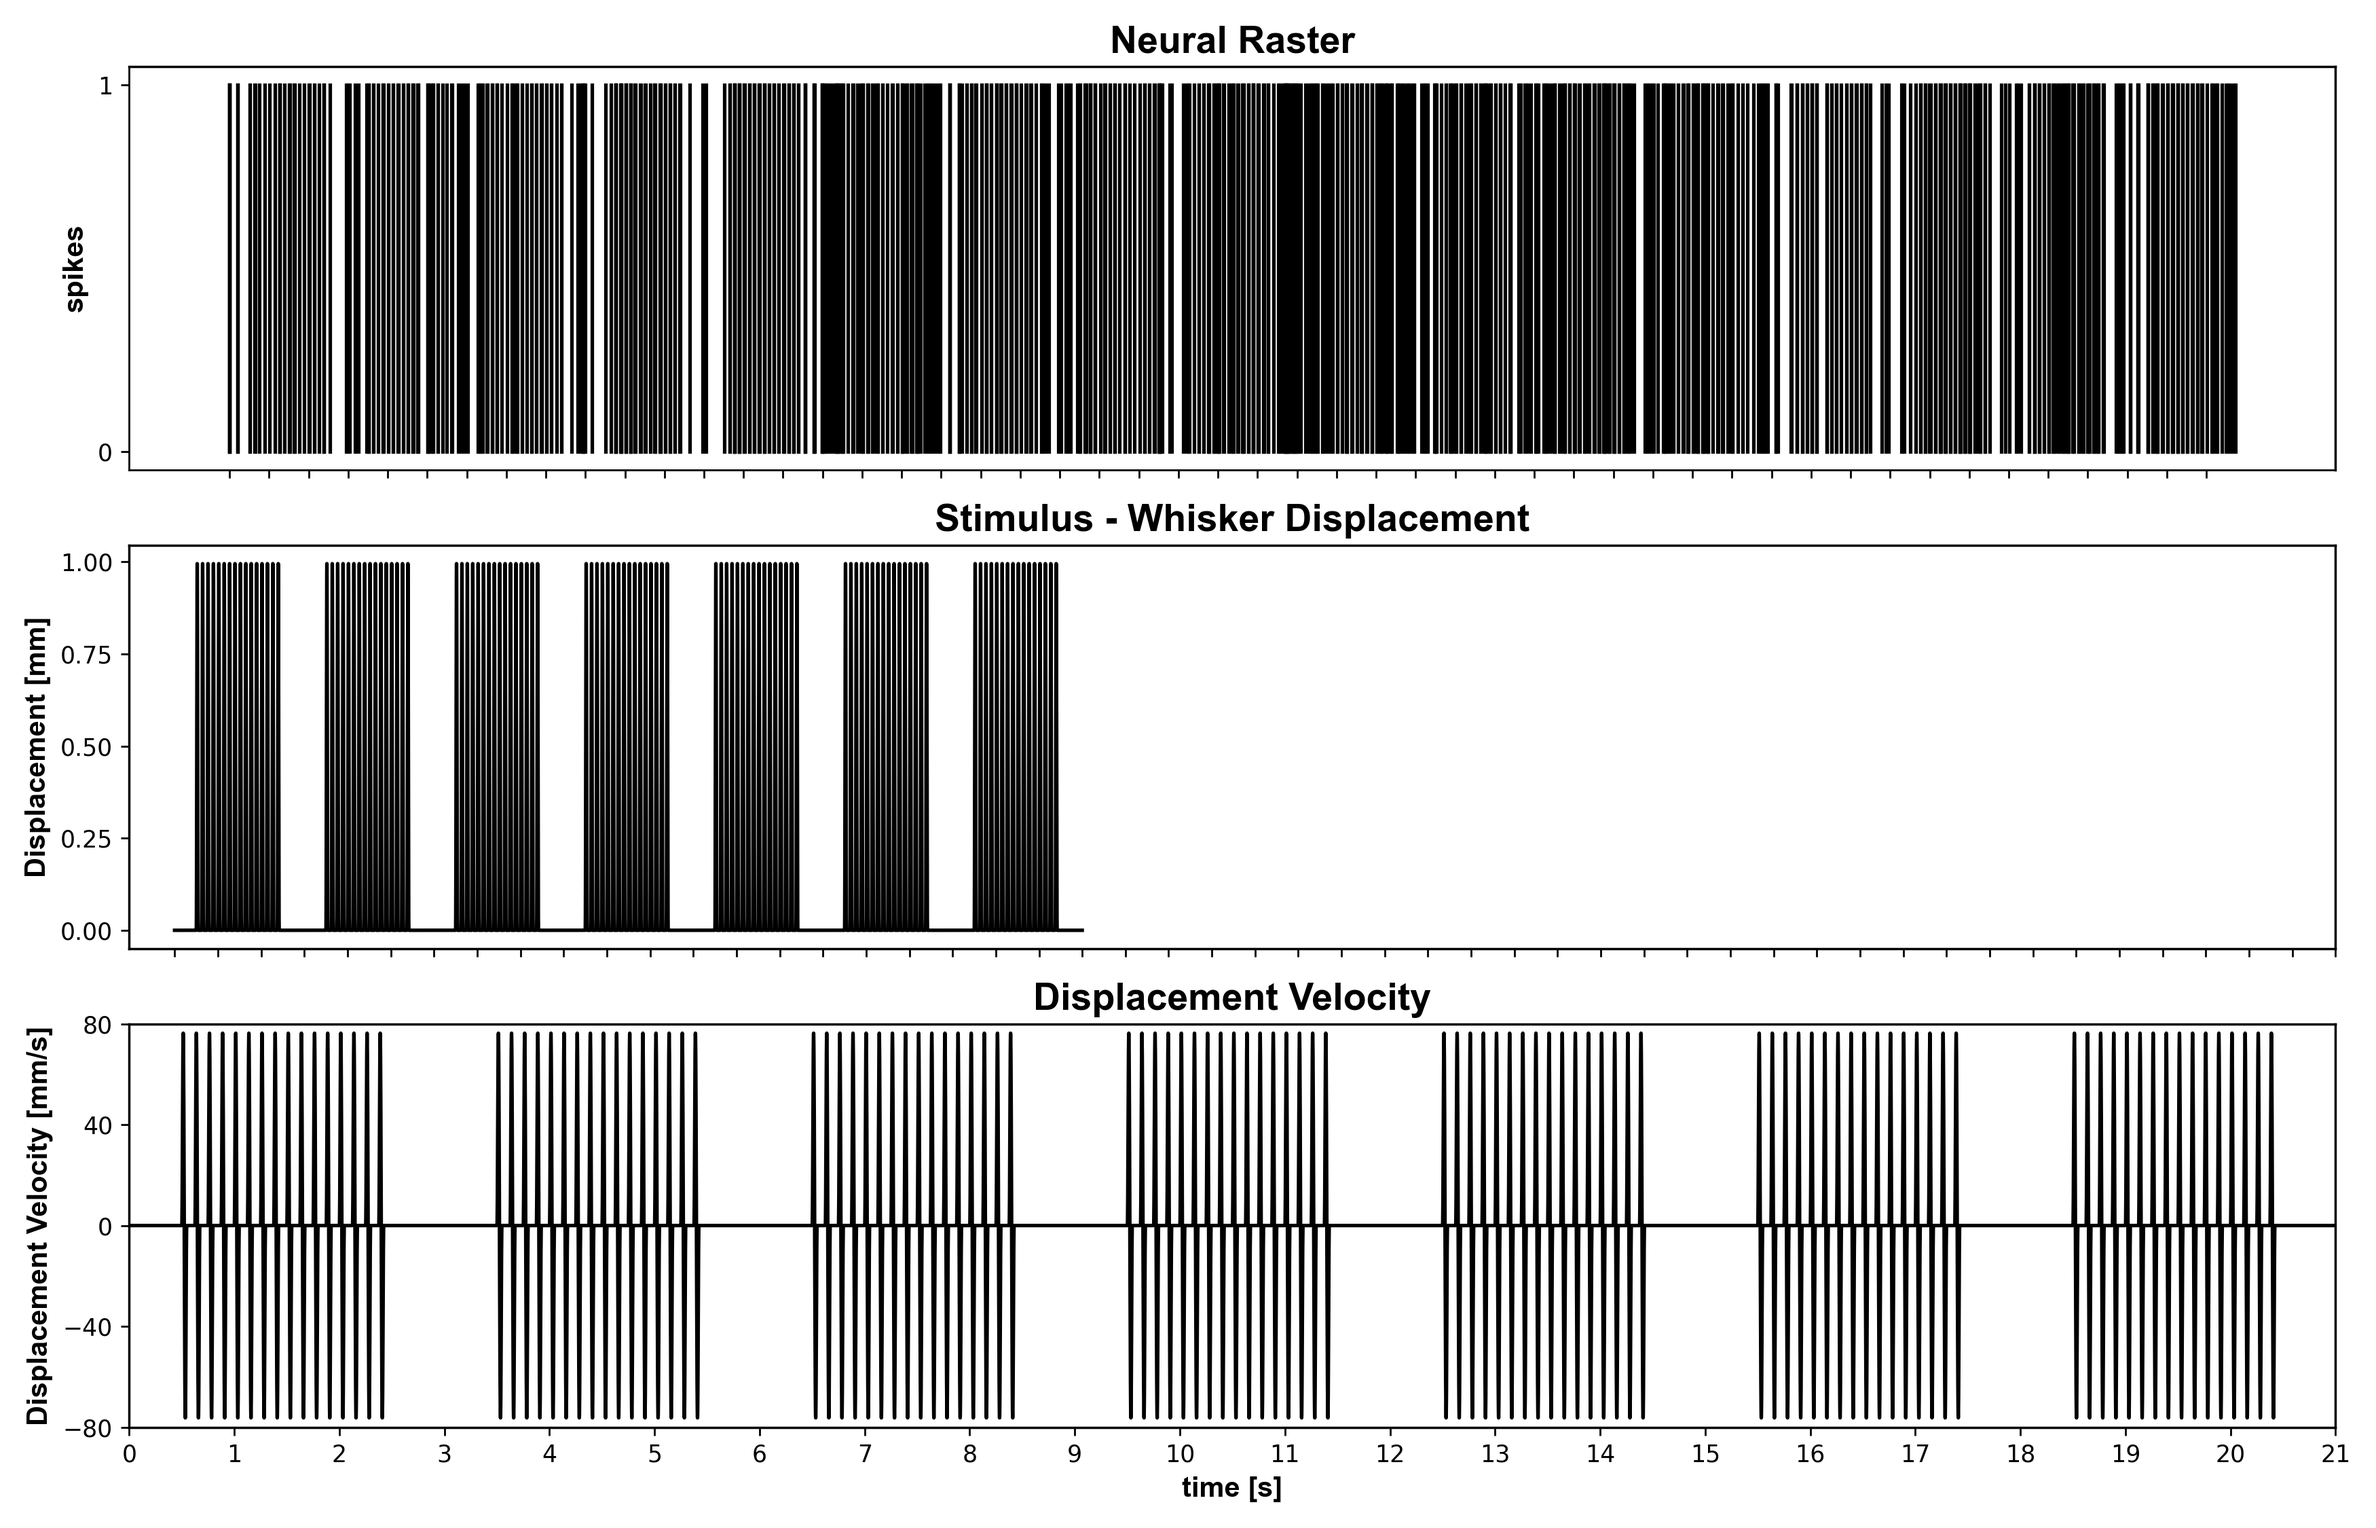
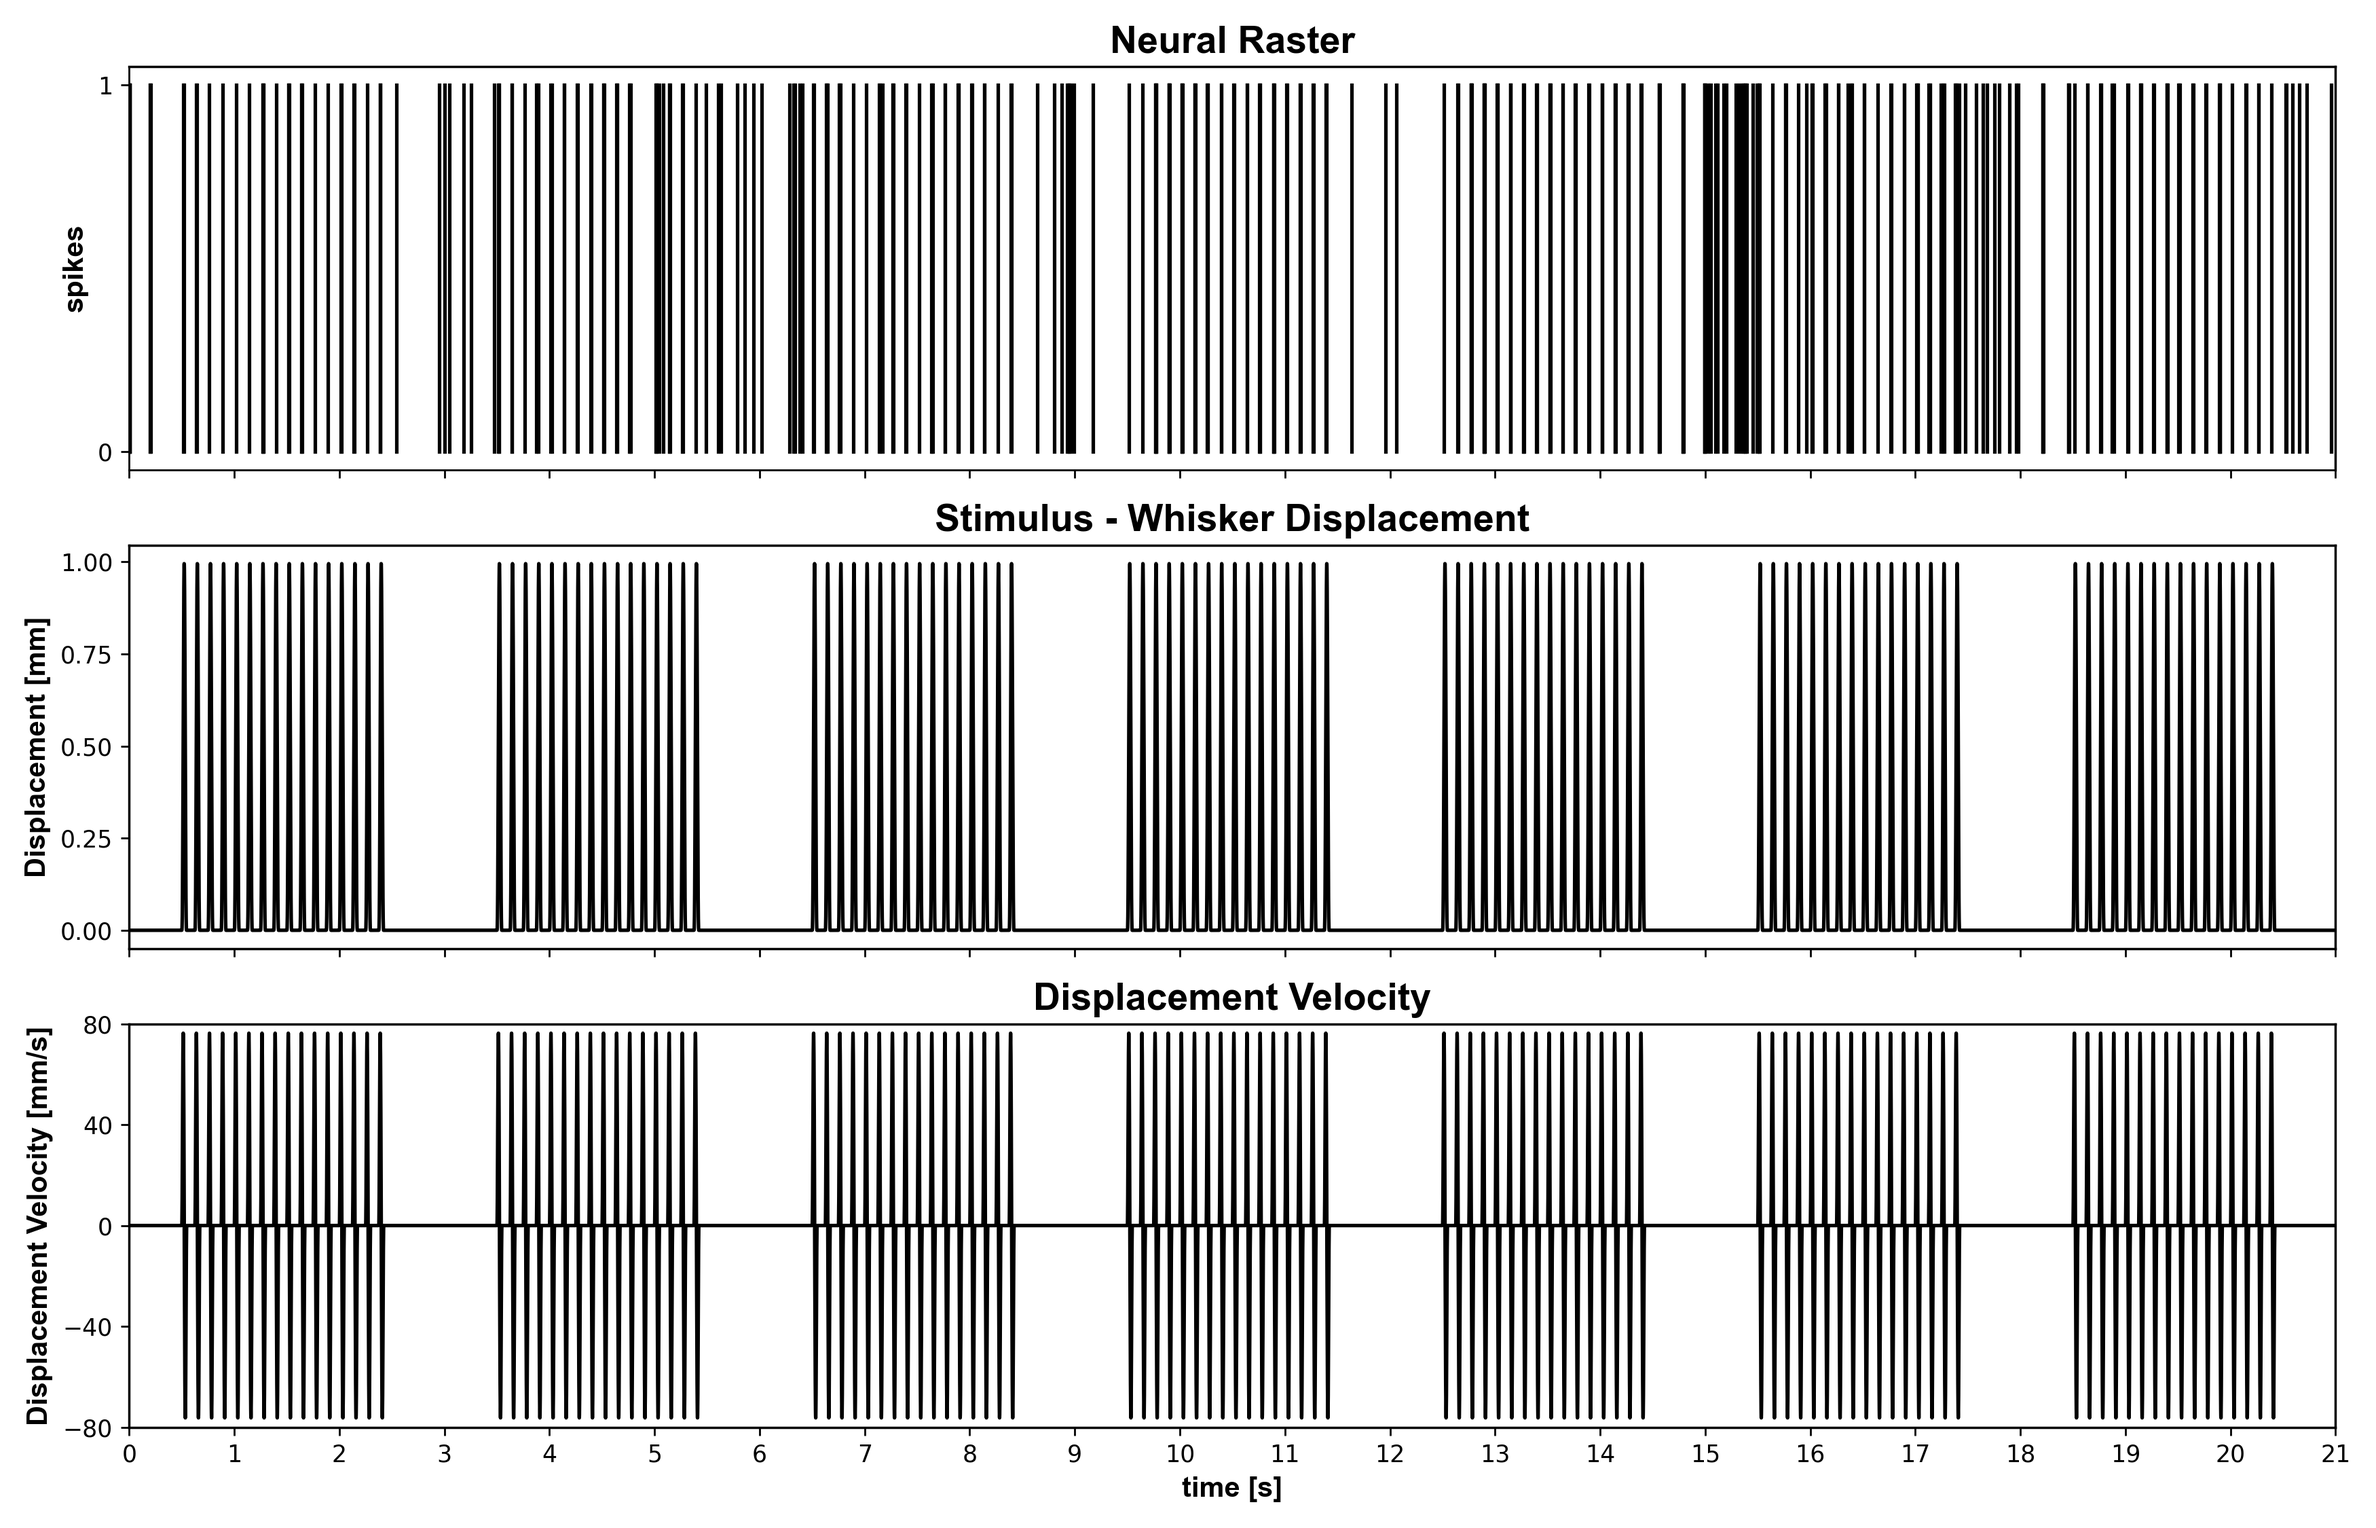
Fix example02 fig01 stimulus displacement x-axis to match raster and velocity
Add explicit xlim(0, viewWindow) to the raster and displacement subplots
so all three panels share the same 0–21 s time range, matching MATLAB.

diff --git a/examples/paper/example02_whisker_stimulus_thalamus.py b/examples/paper/example02_whisker_stimulus_thalamus.py
@@ -154,6 +154,7 @@ def run_example02(*, export_figures: bool = False, export_dir: Path | None = Non
     ax.set_xticks(xticks)
     ax.set_xticklabels([])  # No x-labels on top/middle subplots
     ax.set_xlabel("")
+    ax.set_xlim(0, viewWindow)
     ax.set_ylabel("spikes", fontsize=12, fontweight="bold", fontfamily="Arial")
     ax.set_title("Neural Raster", fontweight="bold", fontsize=16, fontfamily="Arial")
     ax.spines["top"].set_linewidth(1)
@@ -168,6 +169,7 @@ def run_example02(*, export_figures: bool = False, export_dir: Path | None = Non
     ax.set_xticks(xticks)
     ax.set_xticklabels([])
     ax.set_xlabel("")
+    ax.set_xlim(0, viewWindow)
     ax.set_ylabel("Displacement [mm]", fontsize=12, fontweight="bold", fontfamily="Arial")
     ax.set_title("Stimulus - Whisker Displacement", fontweight="bold", fontsize=16, fontfamily="Arial")
     for spine in ax.spines.values():
